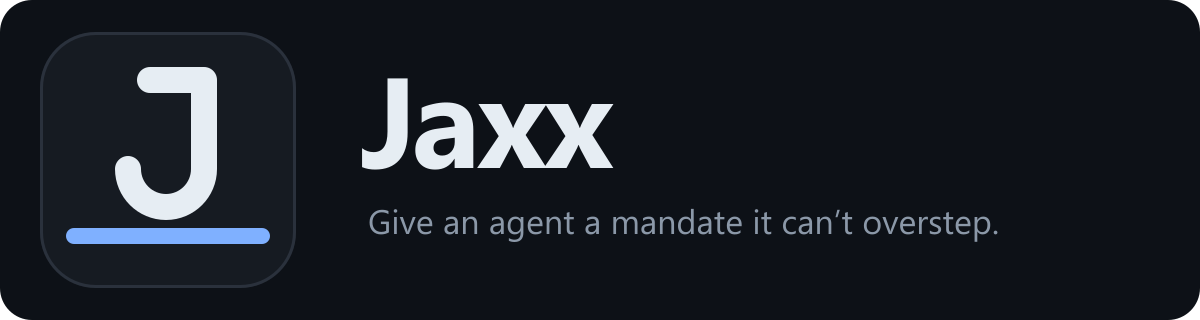
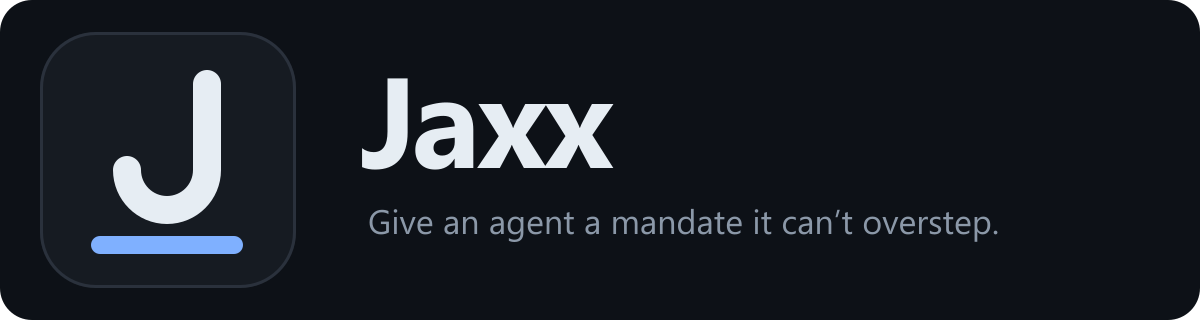
docs: redraw the mark - barless J, wider rail
The J loses its top bar: a bare stem and hook reads as a drawn gesture
rather than a font glyph, and it is more distinctive at small sizes.

The rail now extends past the letter on both sides instead of running
nearly full-bleed. A boundary wider than the actor says the mandate is
bigger than the agent; a boundary the letter's own width just reads as
an underline. It also stops fighting the tile's corner radius, which
the old full-bleed rail had to be lifted to avoid.

Rail height 16 -> 18 so it lands on a whole pixel at 16px.

Applied across logo, logo-mono, glyph, wordmark, banner, og and the
inlined nav/footer marks; PNGs re-rendered.

Copilot-Session: 526877f0-8e02-4f3b-b1e7-4a9dbb56dd89

Changed region(s): [[0.0308, 0.1875, 0.2467, 0.8125]]

diff --git a/docs/index.html b/docs/index.html
@@ -79,7 +79,7 @@
     text-decoration: none;
   }
   .mark {
-    width: 27px; height: 24px; display: block;
+    width: 20px; height: 24px; display: block;
     color: var(--accent); flex: none;
   }
   .mark .rail { fill: currentColor; }
@@ -322,7 +322,7 @@
 
 <nav class="nav">
   <div class="wrap">
-    <a class="brand" href="#top"><svg class="mark" viewBox="18 26 220 194" aria-hidden="true" focusable="false"><path d="M110 48 L164 48 L164 137 A38 38 0 0 1 88 137" fill="none" stroke="currentColor" stroke-width="26" stroke-linecap="round" stroke-linejoin="round"/><rect class="rail" x="26" y="192" width="204" height="18" rx="9"/></svg> Jaxx</a>
+    <a class="brand" href="#top"><svg class="mark" viewBox="51 38 152 184" aria-hidden="true" focusable="false"><path d="M167 52 L167 138 A40 40 0 0 1 87 138" fill="none" stroke="currentColor" stroke-width="28" stroke-linecap="round" stroke-linejoin="round"/><rect class="rail" x="51" y="204" width="152" height="18" rx="9"/></svg> Jaxx</a>
     <div class="navlinks">
       <a href="#cycle">How it works</a>
       <a href="#why">Why not a prompt</a>
@@ -683,7 +683,7 @@
 <footer>
   <div class="wrap cols">
     <div>
-      <a class="brand" href="#top" style="margin-bottom:10px"><svg class="mark" viewBox="18 26 220 194" aria-hidden="true" focusable="false"><path d="M110 48 L164 48 L164 137 A38 38 0 0 1 88 137" fill="none" stroke="currentColor" stroke-width="26" stroke-linecap="round" stroke-linejoin="round"/><rect class="rail" x="26" y="192" width="204" height="18" rx="9"/></svg> Jaxx</a><br>
+      <a class="brand" href="#top" style="margin-bottom:10px"><svg class="mark" viewBox="51 38 152 184" aria-hidden="true" focusable="false"><path d="M167 52 L167 138 A40 40 0 0 1 87 138" fill="none" stroke="currentColor" stroke-width="28" stroke-linecap="round" stroke-linejoin="round"/><rect class="rail" x="51" y="204" width="152" height="18" rx="9"/></svg> Jaxx</a><br>
       MIT licensed &middot; a personal project, not affiliated with or endorsed by any employer.
     </div>
     <div class="links">
